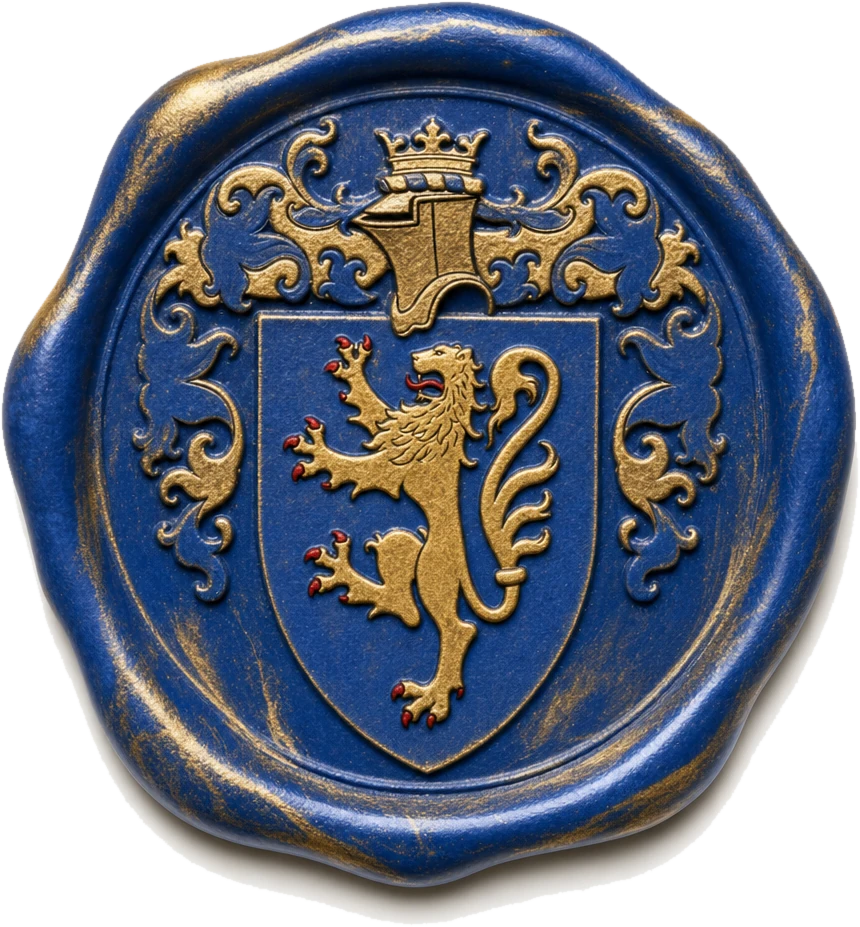
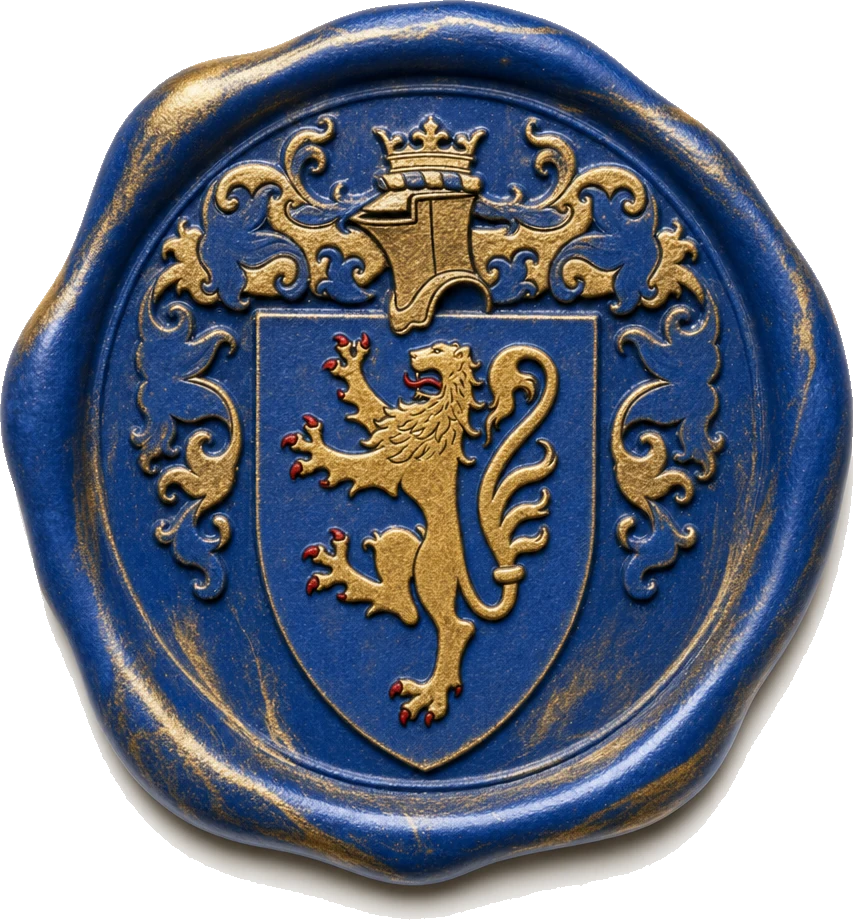
Restyle footer into paper dock card, add signature, clean wax seal motto

diff --git a/components/sections/connect.tsx b/components/sections/connect.tsx
@@ -361,35 +361,37 @@ function SpeakingForm() {
   );
 }
 
-/** (d) Footer bar: dark band in both themes, email left, dock right. */
+/** (d) Footer bar: a soft rounded paper card, inset from the edges, with the
+ * email on the left and the macOS-style social dock on the right. */
 function FooterBar() {
   return (
-    <div className="bg-sable text-paper">
-      <div className="mx-auto flex max-w-5xl flex-col items-center justify-between gap-6 px-5 py-7 sm:flex-row sm:px-8">
+    <div className="px-5 pb-6 sm:px-8">
+      <div className="mx-auto flex max-w-4xl flex-col items-center justify-between gap-7 rounded-3xl border border-line bg-canvas-raised px-6 py-6 shadow-(--shadow-polaroid) sm:flex-row sm:px-8 sm:py-7">
         <a
           href={`mailto:${CONTACT_EMAIL}`}
           onClick={() =>
             trackEvent(AnalyticsEvents.OutboundLink, { destination: "mailto:" + CONTACT_EMAIL })
           }
-          className="group inline-flex items-center gap-2.5 rounded-sm text-sm font-medium underline-offset-4 hover:underline focus-visible:outline-2 focus-visible:outline-offset-4 focus-visible:outline-or"
+          className="group inline-flex items-center gap-2.5 rounded-sm text-sm font-medium text-ink decoration-accent decoration-2 underline-offset-4 transition-colors hover:text-accent hover:underline focus-visible:outline-2 focus-visible:outline-offset-4 focus-visible:outline-accent"
         >
-          <svg
-            viewBox="0 0 24 24"
-            fill="none"
-            stroke="currentColor"
-            strokeWidth="1.8"
-            strokeLinecap="round"
-            strokeLinejoin="round"
-            aria-hidden
-            className="size-4 transition-transform duration-200 group-hover:translate-x-0.5 group-hover:-translate-y-0.5"
-          >
-            <path d="M22 2 11 13" />
-            <path d="M22 2 15 22l-4-9-9-4 20-7z" />
-          </svg>
+          <span className="grid size-8 place-items-center rounded-full bg-accent/10 text-accent transition-transform duration-200 group-hover:-translate-y-0.5 group-hover:translate-x-0.5">
+            <svg
+              viewBox="0 0 24 24"
+              fill="none"
+              stroke="currentColor"
+              strokeWidth="1.8"
+              strokeLinecap="round"
+              strokeLinejoin="round"
+              aria-hidden
+              className="size-4"
+            >
+              <path d="M22 2 11 13" />
+              <path d="M22 2 15 22l-4-9-9-4 20-7z" />
+            </svg>
+          </span>
           {CONTACT_EMAIL}
         </a>
-        {/* Dock recoloured for the dark band (light theme needs it; dark is a no-op) */}
-        <SocialDock className="[&_a]:border-white/25! [&_a]:bg-white/10! [&_a]:text-paper! [&_span]:bg-paper! [&_span]:text-sable!" />
+        <SocialDock />
       </div>
     </div>
   );
@@ -437,8 +439,14 @@ function WaxSeal() {
         {/* eslint-disable-next-line @next/next/no-img-element */}
         <img src="/brand/crest-badge.svg" alt="" className="relative w-[52%] opacity-25 mix-blend-multiply" />
       </motion.div>
-      <p className="font-heraldic text-sm tracking-[0.45em] text-ink">CORAM DEO</p>
-      <p className="-rotate-2 font-hand text-xl text-ink-soft">coram deo</p>
+      <p className="font-sans text-xs font-semibold tracking-[0.4em] text-ink uppercase">
+        Coram Deo
+      </p>
+      {/* the real hand signature, theme-swapped */}
+      {/* eslint-disable-next-line @next/next/no-img-element */}
+      <img src="/brand/signature-black.png" alt="Sipho Yawe signature" className="w-48 dark:hidden" />
+      {/* eslint-disable-next-line @next/next/no-img-element */}
+      <img src="/brand/signature-white.png" alt="" aria-hidden className="hidden w-48 dark:block" />
       <p className="text-xs text-ink-soft">© 2026 Sipho Yawe</p>
     </div>
   );

diff --git a/components/nav/social-dock.tsx b/components/nav/social-dock.tsx
@@ -5,6 +5,14 @@ import { springs } from "@/lib/motion";
 import { SOCIALS } from "@/data/socials";
 import { trackEvent, AnalyticsEvents } from "@/lib/analytics";
 
+/** Platform brand tint that floods the chip on hover. */
+const BRAND: Record<string, string> = {
+  x: "#000000",
+  github: "#24292f",
+  linkedin: "#0a66c2",
+  substack: "#ff6719",
+};
+
 function SocialGlyph({ icon, className }: { icon: string; className?: string }) {
   switch (icon) {
     case "x":
@@ -58,7 +66,8 @@ export function SocialDock({ className = "" }: { className?: string }) {
             whileFocus={reduce ? undefined : { y: -10, scale: 1.22 }}
             whileTap={reduce ? undefined : { scale: 0.94 }}
             transition={springs.bouncy}
-            className="group grid size-11 place-items-center rounded-2xl border border-line bg-canvas-raised text-ink shadow-md outline-none focus-visible:ring-2 focus-visible:ring-accent sm:size-12"
+            style={{ ["--brand" as string]: BRAND[icon] ?? "var(--accent)" }}
+            className="group grid size-11 place-items-center rounded-full border border-line bg-canvas-raised text-ink shadow-md outline-none transition-colors duration-200 hover:border-transparent hover:bg-[var(--brand)] hover:text-white focus-visible:bg-[var(--brand)] focus-visible:text-white focus-visible:ring-2 focus-visible:ring-accent sm:size-12"
           >
             <SocialGlyph icon={icon} className="size-5" />
             {/* label revealed beneath */}